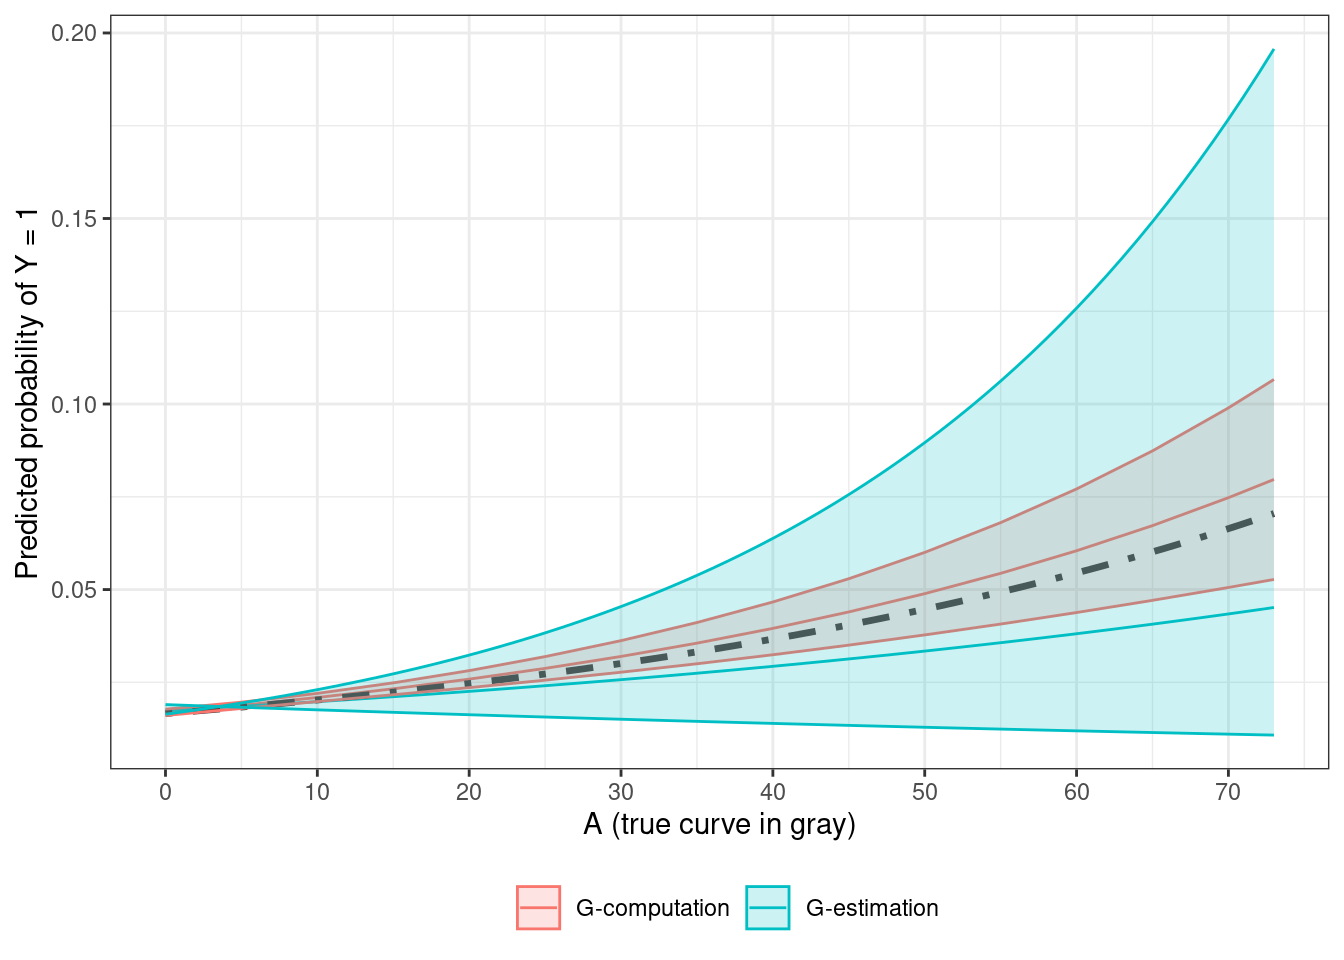
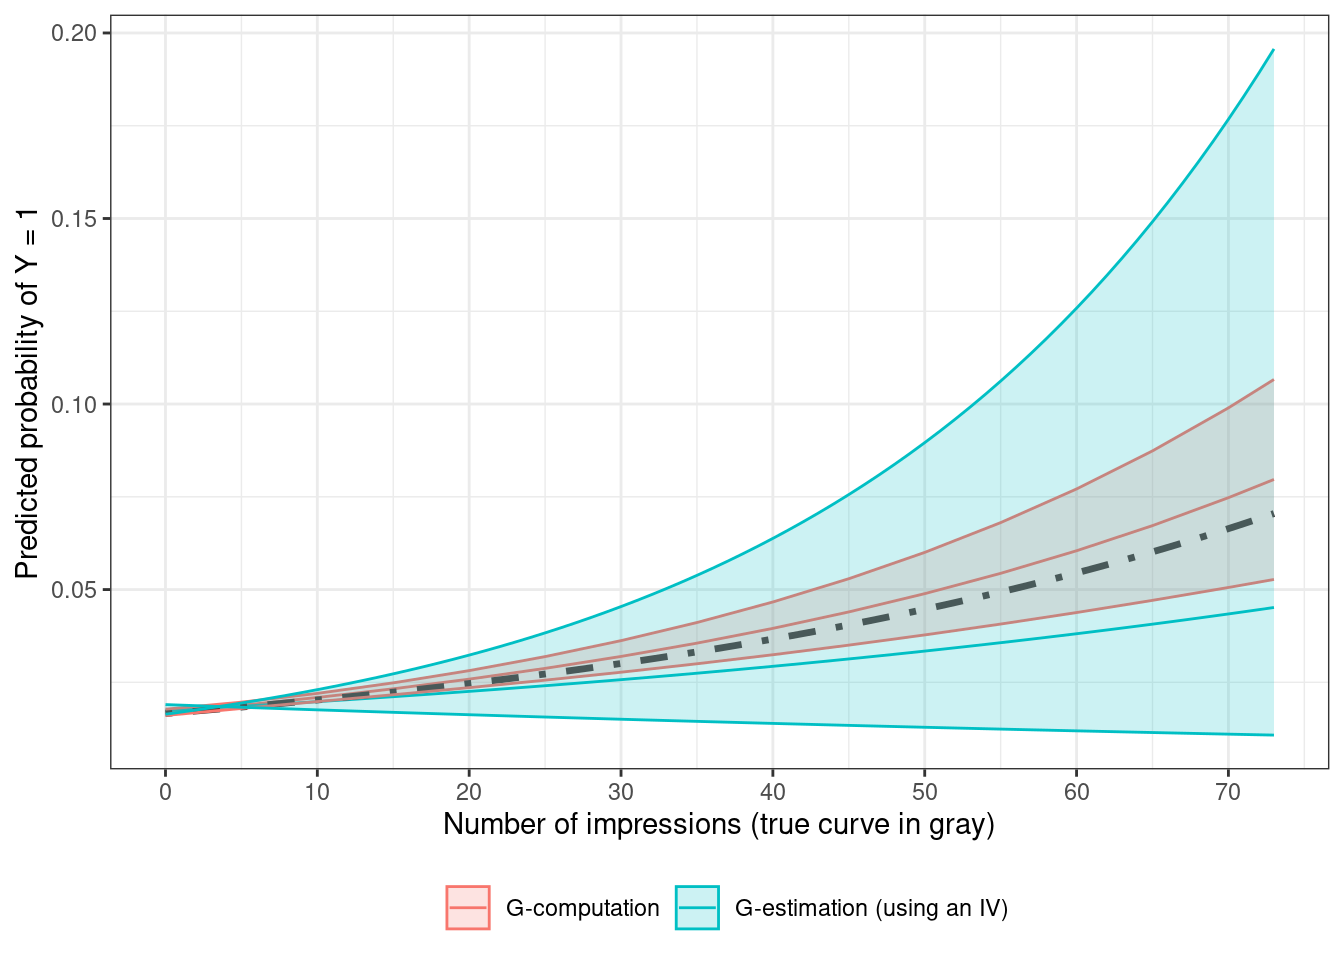
Built site for gh-pages

Changed region(s): [[0.3125, 0.9062, 0.75, 0.9688], [0.3125, 0.8438, 0.75, 0.875]]

diff --git a/posts/g-estimation-of-MSMM-with-an-IV/index.html b/posts/g-estimation-of-MSMM-with-an-IV/index.html
@@ -749,7 +749,7 @@ A  0.01310    0.01065    1.23    0.219</code></pre>
 <span id="cb29-55"><a href="#cb29-55"></a>  <span class="fu">mutate</span>(<span class="at">pY =</span> pY0 <span class="sc">*</span> <span class="fu">exp</span>(logRR <span class="sc">*</span> A)) <span class="sc">%&gt;%</span></span>
 <span id="cb29-56"><a href="#cb29-56"></a>  <span class="fu">select</span>(<span class="sc">-</span>pY0, <span class="sc">-</span>logRR) <span class="sc">%&gt;%</span></span>
 <span id="cb29-57"><a href="#cb29-57"></a>  <span class="fu">pivot_wider</span>(<span class="at">id_cols =</span> A, <span class="at">names_from =</span> <span class="st">"name"</span>, <span class="at">values_from =</span> <span class="st">"pY"</span>) <span class="sc">%&gt;%</span></span>
-<span id="cb29-58"><a href="#cb29-58"></a>  <span class="fu">mutate</span>(<span class="at">type  =</span> <span class="st">"G-estimation"</span>)</span>
+<span id="cb29-58"><a href="#cb29-58"></a>  <span class="fu">mutate</span>(<span class="at">type  =</span> <span class="st">"G-estimation (using an IV)"</span>)</span>
 <span id="cb29-59"><a href="#cb29-59"></a></span>
 <span id="cb29-60"><a href="#cb29-60"></a><span class="fu">bind_rows</span>(</span>
 <span id="cb29-61"><a href="#cb29-61"></a>  g_computation_dose_response_extrapolated_levels,</span>
@@ -771,7 +771,7 @@ A  0.01310    0.01065    1.23    0.219</code></pre>
 <span id="cb29-77"><a href="#cb29-77"></a>  <span class="fu">scale_x_continuous</span>(<span class="at">breaks =</span> <span class="fu">seq</span>(<span class="dv">0</span>, <span class="dv">80</span>, <span class="dv">10</span>)) <span class="sc">+</span></span>
 <span id="cb29-78"><a href="#cb29-78"></a>  <span class="fu">theme</span>(<span class="at">legend.position =</span> <span class="st">"bottom"</span>, <span class="at">legend.title =</span> <span class="fu">element_blank</span>()) <span class="sc">+</span></span>
 <span id="cb29-79"><a href="#cb29-79"></a>  <span class="fu">ylab</span>(<span class="st">"Predicted probability of Y = 1"</span>) <span class="sc">+</span> </span>
-<span id="cb29-80"><a href="#cb29-80"></a>  <span class="fu">xlab</span>(<span class="st">"A (true curve in gray)"</span>)</span></code><button title="Copy to Clipboard" class="code-copy-button"><i class="bi"></i></button></pre></div>
+<span id="cb29-80"><a href="#cb29-80"></a>  <span class="fu">xlab</span>(<span class="st">"Number of impressions (true curve in gray)"</span>)</span></code><button title="Copy to Clipboard" class="code-copy-button"><i class="bi"></i></button></pre></div>
 </details>
 <div class="cell-output-display">
 <p><img src="index_files/figure-html/unnamed-chunk-16-1.png" class="img-fluid" width="672"></p>
@@ -1766,7 +1766,7 @@ window.document.addEventListener("DOMContentLoaded", function (event) {
 <span id="cb31-541"><a href="#cb31-541"></a>  <span class="fu">mutate</span>(<span class="at">pY =</span> pY0 <span class="sc">*</span> <span class="fu">exp</span>(logRR <span class="sc">*</span> A)) <span class="sc">%&gt;%</span></span>
 <span id="cb31-542"><a href="#cb31-542"></a>  <span class="fu">select</span>(<span class="sc">-</span>pY0, <span class="sc">-</span>logRR) <span class="sc">%&gt;%</span></span>
 <span id="cb31-543"><a href="#cb31-543"></a>  <span class="fu">pivot_wider</span>(<span class="at">id_cols =</span> A, <span class="at">names_from =</span> <span class="st">"name"</span>, <span class="at">values_from =</span> <span class="st">"pY"</span>) <span class="sc">%&gt;%</span></span>
-<span id="cb31-544"><a href="#cb31-544"></a>  <span class="fu">mutate</span>(<span class="at">type  =</span> <span class="st">"G-estimation"</span>)</span>
+<span id="cb31-544"><a href="#cb31-544"></a>  <span class="fu">mutate</span>(<span class="at">type  =</span> <span class="st">"G-estimation (using an IV)"</span>)</span>
 <span id="cb31-545"><a href="#cb31-545"></a></span>
 <span id="cb31-546"><a href="#cb31-546"></a><span class="fu">bind_rows</span>(</span>
 <span id="cb31-547"><a href="#cb31-547"></a>  g_computation_dose_response_extrapolated_levels,</span>
@@ -1788,7 +1788,7 @@ window.document.addEventListener("DOMContentLoaded", function (event) {
 <span id="cb31-563"><a href="#cb31-563"></a>  <span class="fu">scale_x_continuous</span>(<span class="at">breaks =</span> <span class="fu">seq</span>(<span class="dv">0</span>, <span class="dv">80</span>, <span class="dv">10</span>)) <span class="sc">+</span></span>
 <span id="cb31-564"><a href="#cb31-564"></a>  <span class="fu">theme</span>(<span class="at">legend.position =</span> <span class="st">"bottom"</span>, <span class="at">legend.title =</span> <span class="fu">element_blank</span>()) <span class="sc">+</span></span>
 <span id="cb31-565"><a href="#cb31-565"></a>  <span class="fu">ylab</span>(<span class="st">"Predicted probability of Y = 1"</span>) <span class="sc">+</span> </span>
-<span id="cb31-566"><a href="#cb31-566"></a>  <span class="fu">xlab</span>(<span class="st">"A (true curve in gray)"</span>)</span>
+<span id="cb31-566"><a href="#cb31-566"></a>  <span class="fu">xlab</span>(<span class="st">"Number of impressions (true curve in gray)"</span>)</span>
 <span id="cb31-567"><a href="#cb31-567"></a><span class="in">```</span></span>
 <span id="cb31-568"><a href="#cb31-568"></a></span>
 <span id="cb31-569"><a href="#cb31-569"></a>Assuming no-effect modification by $U$, the point estimate and the CI endpoints from <span class="in">`ivglm`</span> are used to first estimate $\text{Pr}<span class="co">[</span><span class="ot">Y = 1 | A = 0</span><span class="co">]</span>$ (which is the same as $\text{Pr}<span class="co">[</span><span class="ot">Y^{a = 0} = 1</span><span class="co">]</span>$<span class="ot">[^18]</span>) by using the following relation</span>

diff --git a/index.html b/index.html
@@ -161,7 +161,7 @@ ul.task-list li input[type="checkbox"] {
 
 <div class="quarto-listing quarto-listing-container-default" id="listing-listing">
 <div class="list quarto-listing-default">
-<div class="quarto-post image-right" data-index="0" data-categories="Causal Inference,Instrumental Variables,G-estimation,G-computation,GEE,R" data-listing-date-sort="1707433200000" data-listing-file-modified-sort="1707979934882" data-listing-date-modified-sort="NaN" data-listing-reading-time-sort="25">
+<div class="quarto-post image-right" data-index="0" data-categories="Causal Inference,Instrumental Variables,G-estimation,G-computation,GEE,R" data-listing-date-sort="1707433200000" data-listing-file-modified-sort="1708233889654" data-listing-date-modified-sort="NaN" data-listing-reading-time-sort="25">
 <div class="thumbnail">
 <p><a href="./posts/g-estimation-of-MSMM-with-an-IV/index.html"> <img src="./posts/g-estimation-of-MSMM-with-an-IV/image-MSMM-IV.png" class="thumbnail-image"> </a></p>
 </div>
